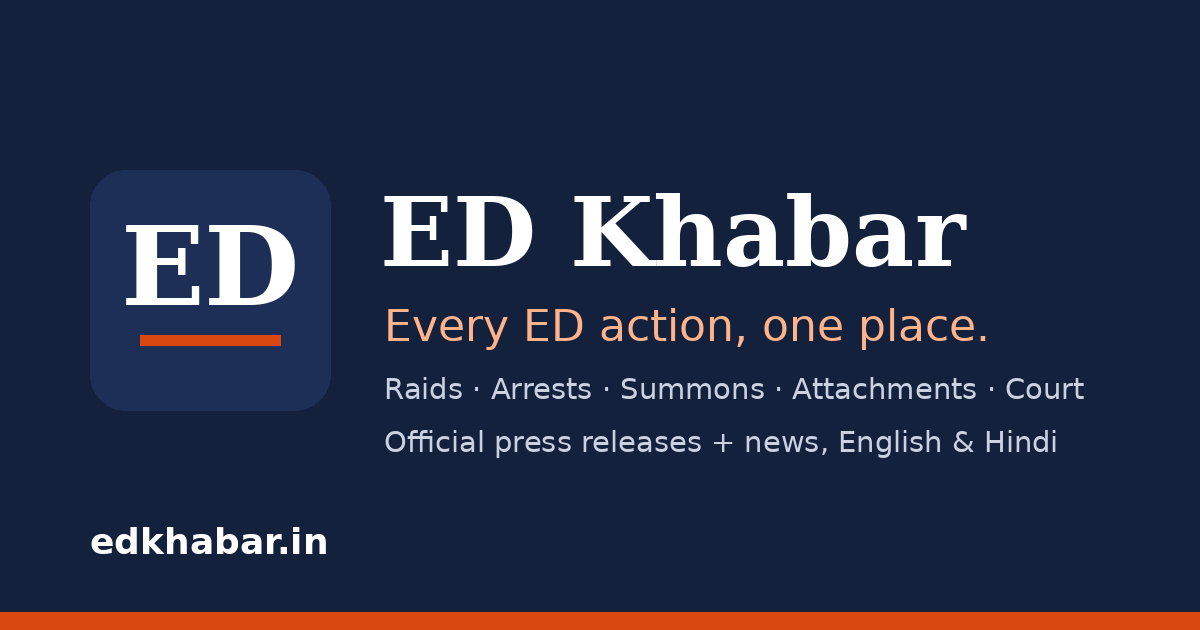
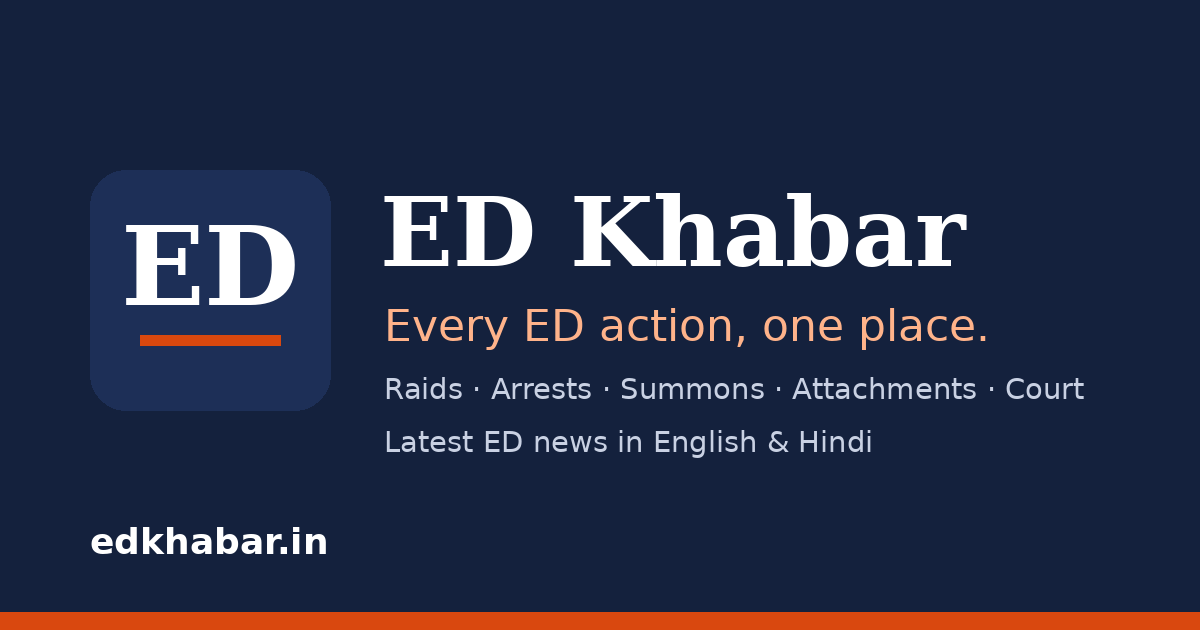
Add files via upload

Changed region(s): [[0.3083, 0.6635, 0.8942, 0.7238]]

diff --git a/index.html b/index.html
@@ -4,19 +4,19 @@
 <meta charset="UTF-8">
 <meta name="viewport" content="width=device-width, initial-scale=1">
 <title>ED Khabar – Every ED action, one place</title>
-<meta name="description" content="Latest Enforcement Directorate (ED) news: official press releases, raids, arrests, summons, property attachments and court updates, in English and Hindi. Updated automatically.">
+<meta name="description" content="Latest Enforcement Directorate (ED) news: raids, arrests, summons, property attachments and court updates, in English and Hindi. Updated automatically.">
 <link rel="canonical" href="https://edkhabar.in/">
 <meta property="og:type" content="website">
 <meta property="og:site_name" content="ED Khabar">
 <meta property="og:title" content="ED Khabar – Every ED action, one place">
-<meta property="og:description" content="Official ED press releases and the latest news on raids, arrests, summons and attachments, in English & Hindi.">
+<meta property="og:description" content="The latest news on ED raids, arrests, summons, attachments and court cases, in English & Hindi.">
 <meta property="og:url" content="https://edkhabar.in/">
 <meta property="og:image" content="https://edkhabar.in/og-image.png">
 <meta property="og:image:width" content="1200">
 <meta property="og:image:height" content="630">
 <meta name="twitter:card" content="summary_large_image">
 <meta name="twitter:title" content="ED Khabar – Every ED action, one place">
-<meta name="twitter:description" content="Official ED press releases and the latest ED news, in English & Hindi.">
+<meta name="twitter:description" content="The latest Enforcement Directorate news, in English & Hindi.">
 <meta name="twitter:image" content="https://edkhabar.in/og-image.png">
 <meta name="theme-color" content="#14213d">
 <link rel="manifest" href="manifest.webmanifest">
@@ -248,10 +248,10 @@ footer a{color:var(--peach)}
   <!-- ABOUT US -->
   <section id="view-about" class="hidden page">
     <h2>About ED Khabar</h2>
-    <p>ED Khabar brings together news about the Directorate of Enforcement (ED) in one place: the ED's official press releases, and reporting from news outlets in English and Hindi on raids, arrests, summons, property attachments and court proceedings.</p>
+    <p>ED Khabar brings together news about the Directorate of Enforcement (ED) in one place: reporting from news outlets in English and Hindi on raids, arrests, summons, property attachments and court proceedings, with a direct link to the ED's official press releases.</p>
     <h3>How it works</h3>
     <ul>
-      <li>Official press releases are taken from the ED's website, with permission, and link to the original document.</li>
+      <li>For official information, the "Official ED press releases" button opens the ED's own press release page.</li>
       <li>News headlines are collected automatically from Google News every two hours. Every story opens at its original publisher.</li>
       <li>Labels such as "Raids" or "ED statement" are added automatically from the headline and may occasionally be wrong.</li>
     </ul>
@@ -271,7 +271,7 @@ footer a{color:var(--peach)}
       <div class="mark" style="width:36px;height:36px;border-radius:9px" aria-hidden="true"><svg viewBox="0 0 40 40" style="width:28px;height:28px"><text x="20" y="23" text-anchor="middle" font-family="Georgia,serif" font-weight="700" font-size="19" fill="#fff">ED</text><rect x="9" y="28" width="22" height="2.6" fill="#d9480f"/></svg></div>
       <b>ED Khabar</b>
     </div>
-    <p>An independent news aggregator. Not affiliated with the Directorate of Enforcement or the Government of India. Headlines link to their original publishers; official releases link to the ED's website.</p>
+    <p>An independent news aggregator. Not affiliated with the Directorate of Enforcement or the Government of India. Headlines link to their original publishers.</p>
     <p style="margin-top:8px">Last updated: <span id="lastup">—</span> · <a href="#" data-goto="about">About us</a></p>
   </div>
 </footer>
@@ -284,7 +284,7 @@ const CONTACT_EMAIL = '';
 const CAT_EN = {'छापेमारी':'Raids','गिरफ़्तारी':'Arrests','समन':'Summons','कुर्की':'Attachments','अदालत':'Court','FEMA':'FEMA','अन्य':'Other'};
 const catOf = n => CAT_EN[n.category] || n.category || 'Other';
 const CATS = ['All','Raids','Arrests','Summons','Attachments','Court','FEMA','Other'];
-const LANGS = [['all','All sources'],['official','🏛 ED official & statements'],['en','English'],['hi','हिंदी']];
+const LANGS = [['all','All sources'],['official','📢 ED statements'],['en','English'],['hi','हिंदी']];
 const PAGE = 30;
 let NEWS = [], cat = 'All', q = '', lang = 'all', shown = PAGE;
 let saved = [];
@@ -343,12 +343,12 @@ function leadCard(n){
 }
 function stats(){
   const day = NEWS.filter(n => Date.now()-new Date(n.published) < 864e5).length;
-  const off = NEWS.filter(n => n.official && Date.now()-new Date(n.published) < 7*864e5).length;
+  const off = NEWS.filter(n => (n.official || n.statement) && Date.now()-new Date(n.published) < 7*864e5).length;
   const week = NEWS.filter(n => Date.now()-new Date(n.published) < 7*864e5).length;
   $('stats').innerHTML = `
     <div class="stat"><b>${day}</b><span>Stories, last 24 hrs</span></div>
     <div class="stat"><b>${week}</b><span>Stories this week</span></div>
-    <div class="stat"><b>${off}</b><span>ED releases this week</span></div>`;
+    <div class="stat"><b>${off}</b><span>ED statements this week</span></div>`;
 }
 function filtered(){
   const ql = q.toLowerCase();
